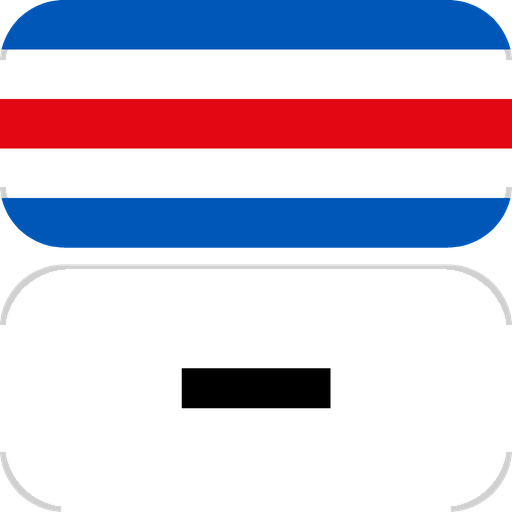
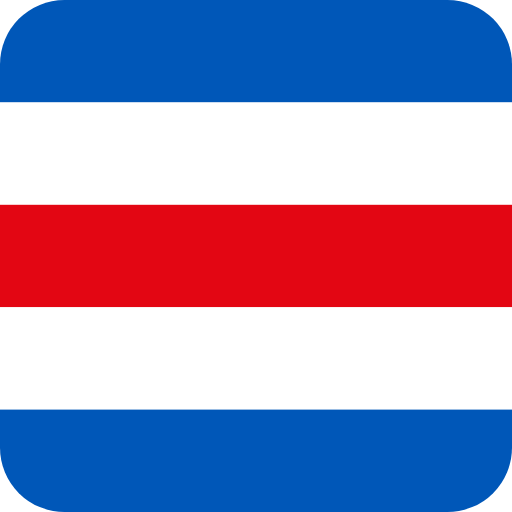
Race flags: C + minus and C + plus without the minus / plus board (plain C)
Claude-Session: https://claude.ai/code/session_01JMHAWQMCJf7smTzTYWktHD

diff --git a/server/src/app.ts b/server/src/app.ts
@@ -633,7 +633,7 @@ export async function buildApp(deps: AppDeps): Promise<FastifyInstance> {
 }
 
 /** The race flag PNGs of earlier versions (sha256, first 16 hex): a copy still like one of them gets the new picture. */
-const OLD_RACE_FLAGS = new Set(['848de9e2ca6f1c66', '914c7f5df8cf6c75', '19a8cde69f5407d4', '88b4d71494465192', '017d3dfe98f86132',
+const OLD_RACE_FLAGS = new Set(['adca74c35232b376', '477649a74c97e457', '848de9e2ca6f1c66', '914c7f5df8cf6c75', '19a8cde69f5407d4', '88b4d71494465192', '017d3dfe98f86132',
   '73bf6c4bcbc143a8', '5e1b1b04963468fe', '635045e9ea3255c3', 'c2dfc39ff9ac0f71', '37c8085c497d3f05', 'ab4b08f159da1b36',
   '386f8ba50a0af73c', 'e64201c96ce30585', '49e71ede7c64cc3c', '846d9ab02740fa4c', '89137e41b7885b3b', '8b34d36fb89eec8c',
   'af4ef36194f507f4', '784b0f887769e06d', '523d7f01de8cc75b', '750e6f1ebc1fe8d0', '041ccd26e4e48f0a', '0aec71ba6ae6bf2d',

diff --git a/scripts/race-flags.py b/scripts/race-flags.py
@@ -7,7 +7,8 @@ other, each as wide as the square and just under half its height. Most pictures 
 Drawn here, in that style:
   - the cut flags: AP as a tapered pennant and A as a swallowtail, alone and in every combination (AP over A/H/1/2/3,
     N over A), with the same rounded corners;
-  - the combinations that came later: C + red / green / minus / plus, AP over 1 / 2 / 3.
+  - the combinations that came later: C + red / green, AP over 1 / 2 / 3.
+  C + minus and C + plus use the plain C picture (C_change_of_course.png) without the minus / plus board.
 Needs Pillow; no fonts (the contact sheet uses one if it finds one).
 
   python3 scripts/race-flags.py [out-dir] [--sheet preview.png]
@@ -162,8 +163,6 @@ DRAWN = [
     ('N_over_A_abandoned_no_more_racing_today.png', ['N', 'A']),
     ('C_red_mark_moved_to_port.png', ['C', 'PORT']),
     ('C_green_mark_moved_to_starboard.png', ['C', 'STARBOARD']),
-    ('C_minus_leg_shortened.png', ['C', 'MINUS']),
-    ('C_plus_leg_lengthened.png', ['C', 'PLUS']),
 ]
 
 
